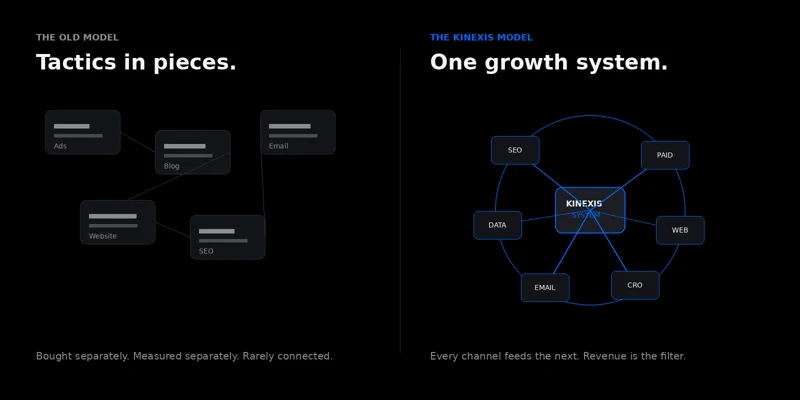
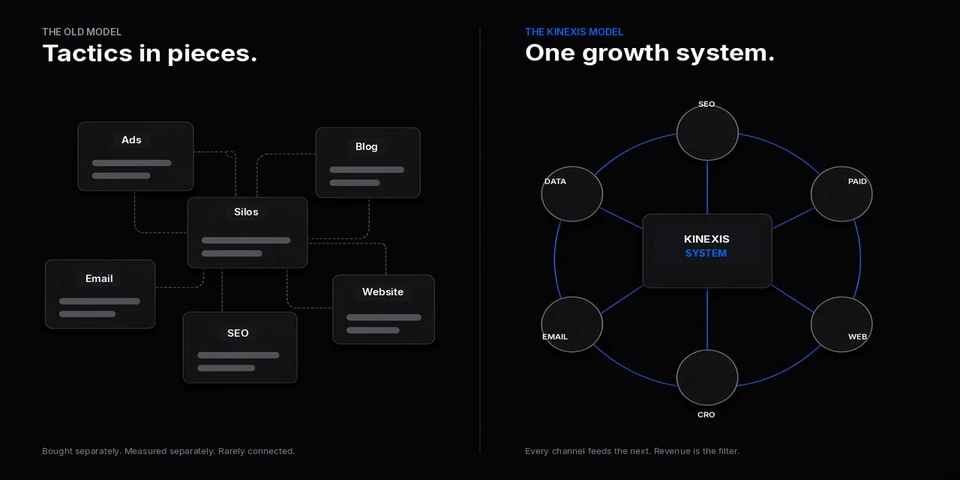
Rebuild About old-vs-KINEXIS model plates to premium craft.
Replace crude comparison and architecture diagrams with black/#0066ff
editorial plates that clearly contrast fragmented tactics vs a connected
growth system, and bust the asset cache on the About page.

diff --git a/src/app/[locale]/about/page.tsx b/src/app/[locale]/about/page.tsx
@@ -132,7 +132,7 @@ export default async function AboutPage({ params }: Props) {
             className="about-why__still"
           >
             <Image
-              src="/assets/images/agency/about-system.webp?v=20260930b"
+              src="/assets/images/agency/about-system.webp?v=20260930c"
               alt="Diagram comparing scattered marketing tactics to the connected KINEXIS growth system"
               width={1600}
               height={800}
@@ -273,7 +273,7 @@ export default async function AboutPage({ params }: Props) {
             className="about-arch__plate"
           >
             <Image
-              src="/assets/images/editorial/about-architecture-plate.webp?v=20260930b"
+              src="/assets/images/editorial/about-architecture-plate.webp?v=20260930c"
               alt="KINEXIS growth architecture: six channels connected in one loop — SEO, paid, web, CRO, email, and data"
               width={1400}
               height={788}
